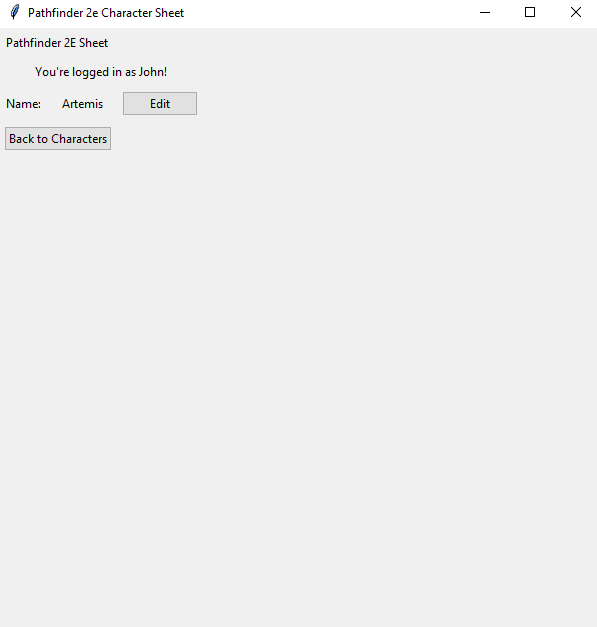
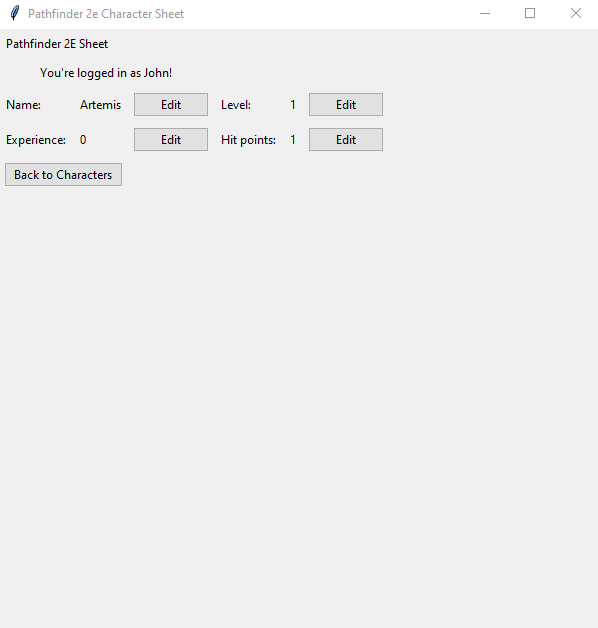
docs: update to state of May 2nd

diff --git a/dokumentaatio/arkkitehtuuri.md b/dokumentaatio/arkkitehtuuri.md
@@ -26,8 +26,10 @@ Koodi on jaettu niin, että _ui_ sisältää käyttöliittymää, _services_ sov
     class Character{
       character_id
       name
+      ancestry
+      heritage
       level
-      xp
+      experience
       hit points
     }
     class Attribute{
@@ -43,7 +45,7 @@ Koodi on jaettu niin, että _ui_ sisältää käyttöliittymää, _services_ sov
     }
 ```
 
-Sovelluslogiikka koostuu luokista [User]https://github.com/Regularmute/ot-harjoitustyo/blob/main/src/entities/user.py, [Character](https://github.com/Regularmute/ot-harjoitustyo/blob/main/src/entities/character.py), Attribute sekä Skill. Tällä hetkellä vain ensimmäiset kaksi luokkaa on toteutettu, ja molemmilla on lisätty oma taulu SQLite3-tietokantaan.
+Sovelluslogiikka koostuu luokista [User](https://github.com/Regularmute/ot-harjoitustyo/blob/main/src/entities/user.py), [Character](https://github.com/Regularmute/ot-harjoitustyo/blob/main/src/entities/character.py), Attribute sekä Skill. Tällä hetkellä vain ensimmäiset kaksi luokkaa on toteutettu, ja molemmilla on lisätty oma taulu SQLite3-tietokantaan.
 
 Molemmilla luokilla on oma _service_-luokka pakkauksessa _services_, joka vastaa niiden toiminnallisista kokonaisuuksista.
 

diff --git a/dokumentaatio/changelog.md b/dokumentaatio/changelog.md
@@ -76,10 +76,18 @@
 
 ## Viikko 6
 
+### User Experience
+* User can now edit characters' level, experience and hit points.
+
 ### Code
 * Some lines have been split into under 79 long lines to follow PEP8.
 * Docstring has been written for all non-UI related code.
+* Added ancestry and heritage attributes to character entity and refactored code to adapt.
 
 ### Documentation
 * Architecture document has been expanded to cover the basic information of the app.
 * User guide has been written for the app.
+
+### Tests
+* More tests for character service and repository.
+* Tests adjusted for the change in character entity.

diff --git a/dokumentaatio/kayttoohje.md b/dokumentaatio/kayttoohje.md
@@ -33,7 +33,7 @@ Painamalla tietyn hahmon kohdalla olevaa "View"-painiketta, pääset hahmolomake
 
 ![](./kuvat//sheetview1.PNG)
 
-Täällä näet hahmosi tiedot, ja voit muokata niitä painamalla "Edit"-painiketta. Tallenna muutoksesi painamalla muokatessa näkyvää "Confirm"-painiketta.
+Täällä näet hahmosi tiedot, ja voit muokata niitä painamalla vastaavaa "Edit"-painiketta. Tallenna muutoksesi painamalla muokatessa näkyvää "Confirm"-painiketta.
 
 Pääset takaisin hahmolistanäkymään painamalla "Back to Characters"-painiketta.
 

diff --git a/dokumentaatio/tuntikirjanpito.md b/dokumentaatio/tuntikirjanpito.md
@@ -25,4 +25,6 @@
 |25.4|1h|Dokumentaatio, 1. Release|
 |1.5.|3h|Docstring ja refaktorointi|
 |1.5.|2h|Dokumentaatio: arkkitehtuuri ja käyttöohjeet|
-|Yhteensä käytetty aika:|36h|
+|2.5.|1h|Docstring, Graafisen käyttöliittymän laajentaminen|
+|2.5.|1h|Hahmoentiteetin muokkaus, refaktorointi, dokumentaatio|
+|Yhteensä käytetty aika:|38h|
